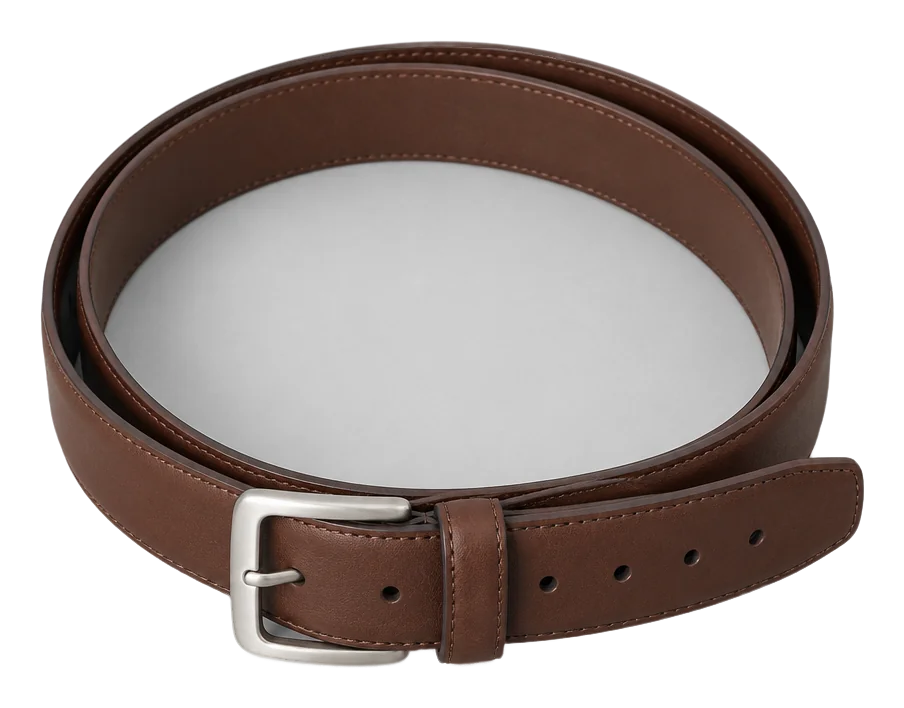
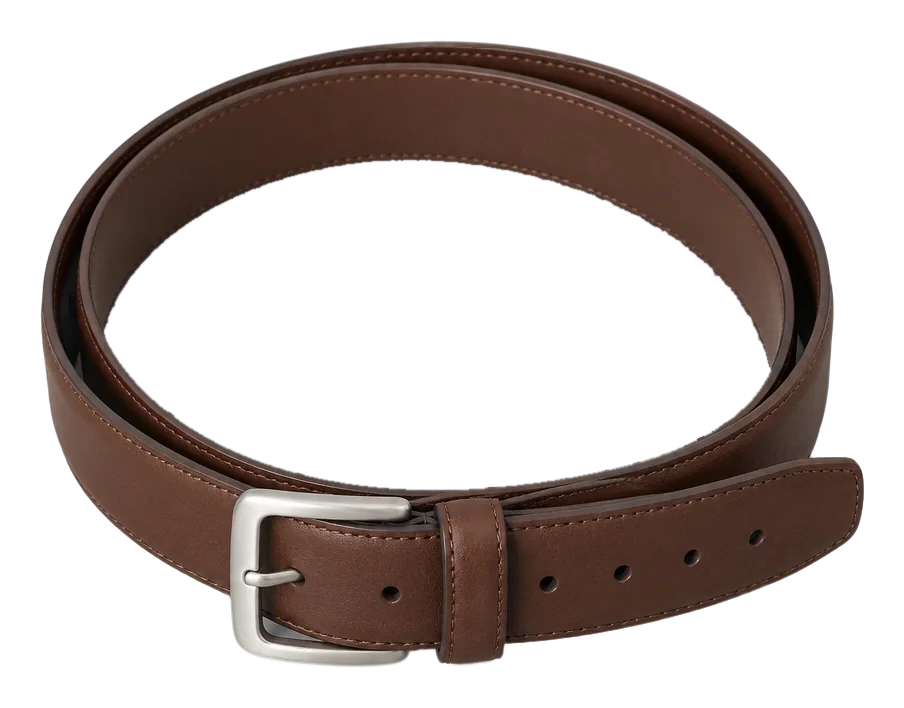
Demo belt cut out inside its loop; service worker cache zay-v8 so phones refetch it

Changed region(s): [[0.0929, 0.2175, 0.8673, 0.7147]]

diff --git a/sw.js b/sw.js
@@ -4,7 +4,7 @@
 // v3 (10 Oct 2026): the ground tile joined the precache (gone again in v5).
 // v4 (10 Oct 2026): the three typefaces (fonts/) and the policy pages join it; Google Fonts is gone.
 // v5 (21 Oct 2026): the name is Zay; the velvet is gone (the ground is flat); the icons are the ZY mark.
-const CACHE = "zay-v7";
+const CACHE = "zay-v8";
 
 self.addEventListener("install", (e) => {
   e.waitUntil(caches.open(CACHE).then((c) => c.addAll(["./icon.png", "./apple-touch-icon.png", "./fonts/bodoni-moda.woff2", "./fonts/bodoni-moda-italic.woff2", "./fonts/inter.woff2", "./fonts/ibm-plex-mono-400.woff2", "./fonts/ibm-plex-mono-500.woff2", "./privacy.html", "./terms.html", "./support.html", "./about.html", "./demo/manifest.json"])).then(() => self.skipWaiting()));
